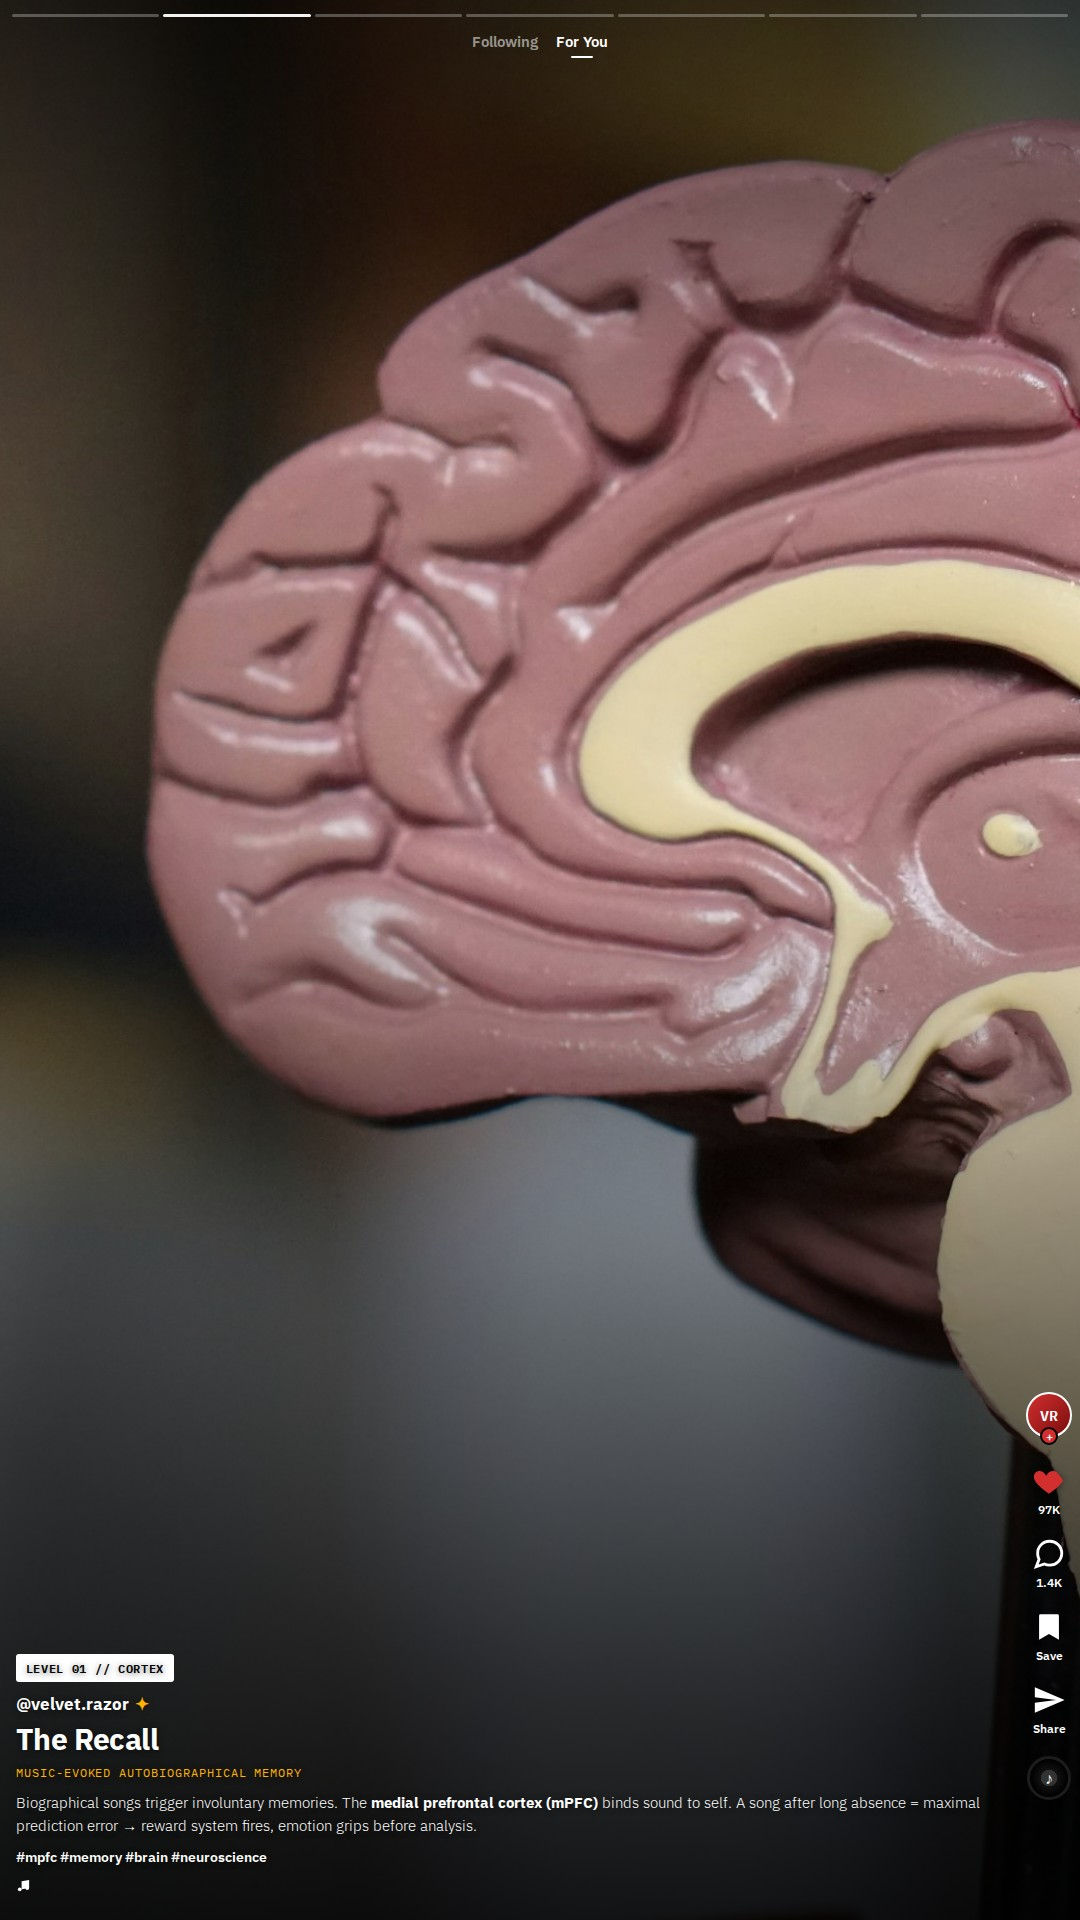
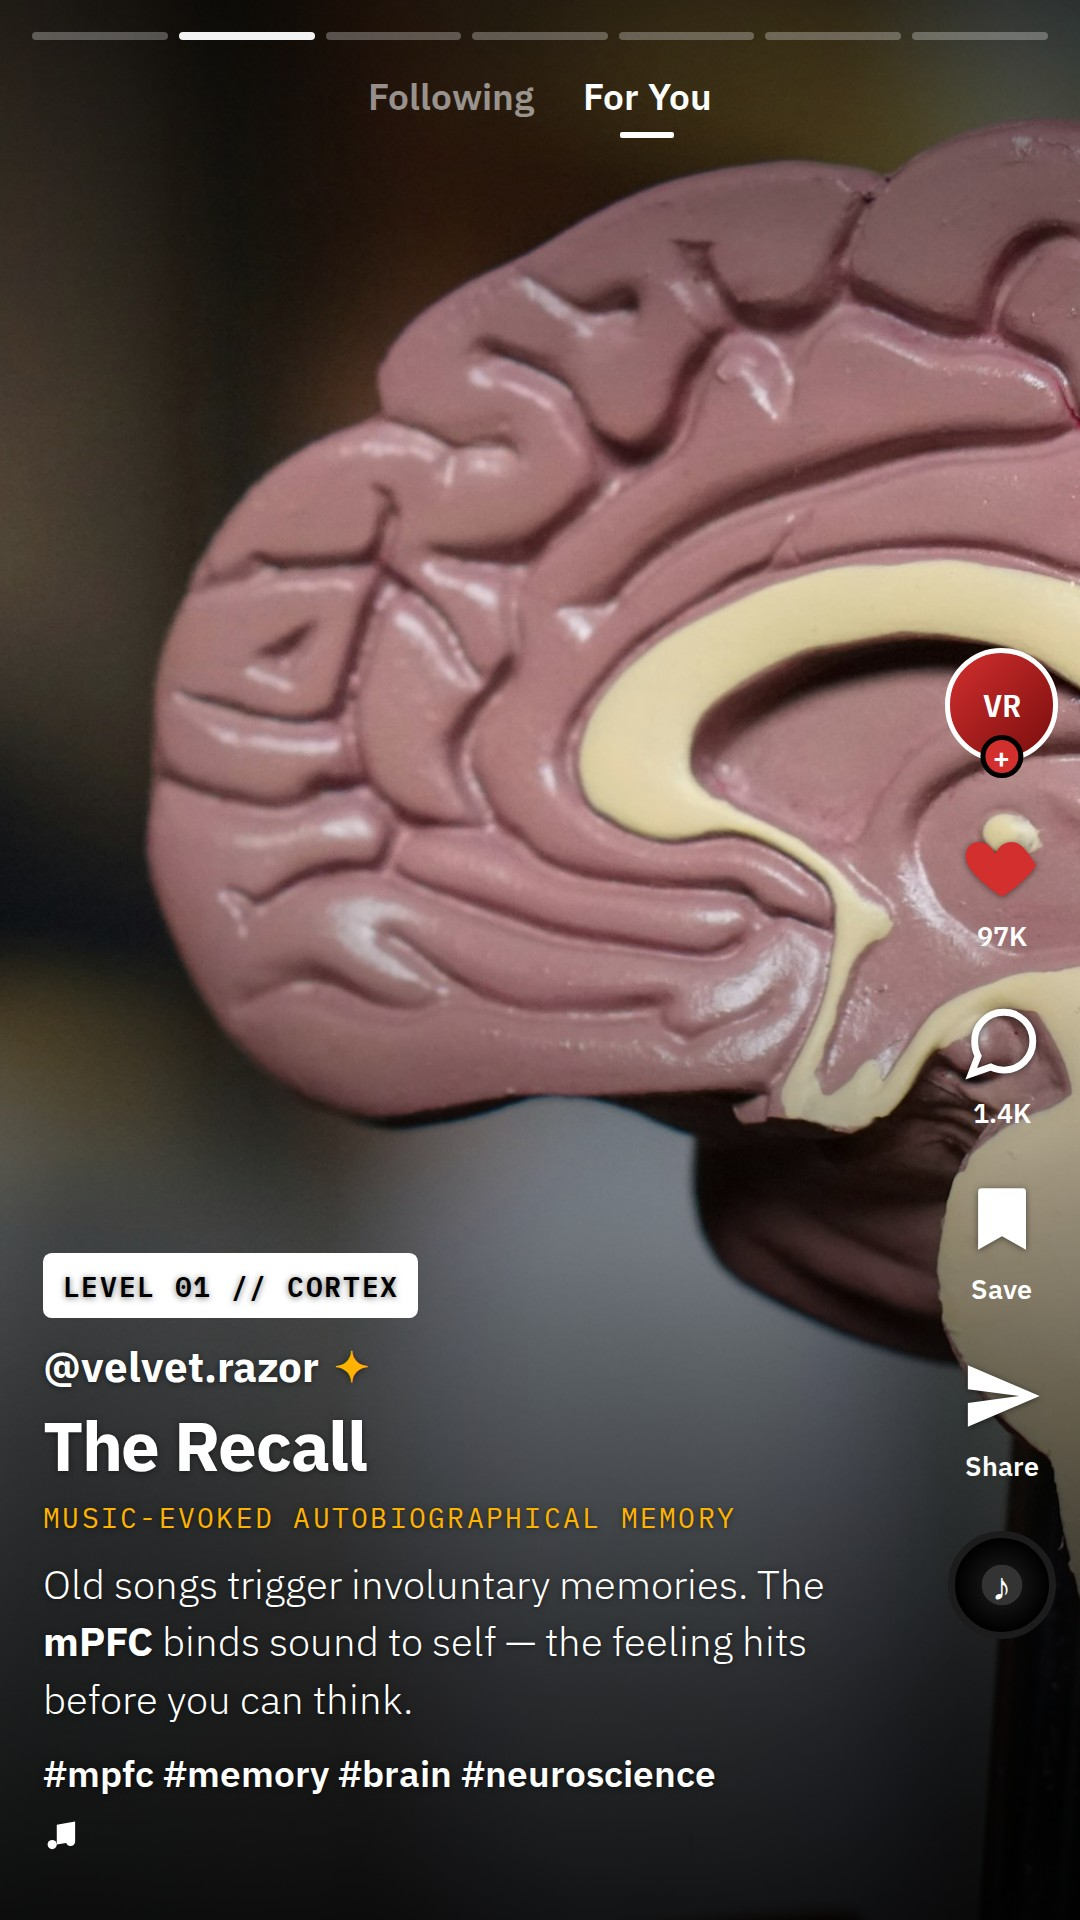
Enlarge slide typography and tighten captions
Size all caption/UI text in container units (cqw) via container-type on
.phone, so typography scales identically in the desktop frame and the
1080x1920 export (text no longer looks tiny on the JPEGs). Shorten each
slide description to punchy TikTok-style copy. Re-render export JPEGs.

Claude-Session: https://claude.ai/code/session_017Q2y2vkwAyKhxds5gc3Pqh

diff --git a/index.html b/index.html
@@ -51,6 +51,9 @@
             overflow: hidden;
             border-radius: 28px;
             box-shadow: 0 0 0 10px #161616, 0 30px 80px rgba(0,0,0,0.8);
+            /* Size container: typography uses cqw so it scales identically in the
+               440px desktop frame and the 1080px JPEG export. */
+            container-type: inline-size;
         }
 
         @media (max-width: 480px) {
@@ -125,18 +128,18 @@
             position: absolute;
             top: 0; left: 0; right: 0;
             z-index: 30;
-            padding: 14px 12px 0;
+            padding: 3cqw 3cqw 0;
             pointer-events: none;
         }
 
         .progress {
             display: flex;
-            gap: 4px;
+            gap: 1cqw;
         }
         .progress__seg {
             flex: 1;
-            height: 3px;
-            border-radius: 3px;
+            height: 0.7cqw;
+            border-radius: 1cqw;
             background: rgba(255,255,255,0.28);
             overflow: hidden;
         }
@@ -144,12 +147,12 @@
 
         .tabs {
             display: flex;
-            gap: 18px;
+            gap: 4.5cqw;
             justify-content: center;
             align-items: center;
-            margin-top: 14px;
+            margin-top: 3cqw;
             font-weight: 600;
-            font-size: 0.95rem;
+            font-size: 3.4cqw;
         }
         .tabs span { color: rgba(255,255,255,0.55); }
         .tabs .on {
@@ -160,8 +163,8 @@
             content: '';
             position: absolute;
             left: 50%; transform: translateX(-50%);
-            bottom: -7px;
-            width: 22px; height: 2px;
+            bottom: -1.6cqw;
+            width: 5cqw; height: 0.5cqw;
             background: #fff;
             border-radius: 2px;
         }
@@ -169,130 +172,130 @@
         /* --- RIGHT ACTION RAIL --- */
         .rail {
             position: absolute;
-            right: 8px;
-            bottom: 120px;
+            right: 2cqw;
+            bottom: 26cqw;
             z-index: 25;
             display: flex;
             flex-direction: column;
             align-items: center;
-            gap: 20px;
+            gap: 4.5cqw;
         }
         .rail__btn {
             display: flex;
             flex-direction: column;
             align-items: center;
-            gap: 4px;
+            gap: 1cqw;
             color: #fff;
         }
-        .rail__btn svg { width: 34px; height: 34px; filter: drop-shadow(0 1px 3px rgba(0,0,0,0.5)); }
-        .rail__btn span { font-size: 0.72rem; font-weight: 600; }
+        .rail__btn svg { width: 7.6cqw; height: 7.6cqw; filter: drop-shadow(0 1px 3px rgba(0,0,0,0.5)); }
+        .rail__btn span { font-size: 2.5cqw; font-weight: 600; }
 
         .rail__avatar {
             position: relative;
-            width: 46px; height: 46px;
+            width: 10.5cqw; height: 10.5cqw;
             border-radius: 50%;
-            border: 2px solid #fff;
+            border: 0.5cqw solid #fff;
             background: linear-gradient(135deg, var(--razor-red), #7a0d0d);
             display: flex; align-items: center; justify-content: center;
             font-family: var(--font-mono);
-            font-weight: 600; font-size: 0.95rem;
-            margin-bottom: 6px;
+            font-weight: 600; font-size: 3cqw;
+            margin-bottom: 1.4cqw;
         }
         .rail__plus {
             position: absolute;
-            bottom: -9px; left: 50%; transform: translateX(-50%);
-            width: 18px; height: 18px; border-radius: 50%;
+            bottom: -2cqw; left: 50%; transform: translateX(-50%);
+            width: 4cqw; height: 4cqw; border-radius: 50%;
             background: var(--razor-red);
-            border: 2px solid #000;
-            color: #fff; font-size: 12px; line-height: 14px; font-weight: 700;
+            border: 0.5cqw solid #000;
+            color: #fff; font-size: 2.6cqw; line-height: 1; font-weight: 700;
             display: flex; align-items: center; justify-content: center;
         }
 
         .rail__btn.heart svg { fill: var(--razor-red); }
 
         .rail__disc {
-            width: 44px; height: 44px;
+            width: 10cqw; height: 10cqw;
             border-radius: 50%;
             background: radial-gradient(circle, #333 30%, #111 31%, #000 70%);
-            border: 3px solid #1c1c1c;
+            border: 0.7cqw solid #1c1c1c;
             display: flex; align-items: center; justify-content: center;
             animation: spin 4s linear infinite;
         }
-        .rail__disc::after { content: '♪'; color: #fff; font-size: 16px; }
+        .rail__disc::after { content: '♪'; color: #fff; font-size: 3.6cqw; }
 
         /* --- BOTTOM CAPTION --- */
         .caption {
             position: relative;
             z-index: 20;
-            padding: 0 78px 26px 16px;
+            padding: 0 18cqw 6cqw 4cqw;
             text-shadow: 0 1px 6px rgba(0,0,0,0.55);
         }
 
         .badge {
             display: inline-block;
             font-family: var(--font-mono);
-            font-size: 0.72rem;
+            font-size: 2.6cqw;
             font-weight: 600;
             letter-spacing: 0.06em;
             text-transform: uppercase;
-            padding: 0.25rem 0.6rem;
-            margin-bottom: 0.7rem;
+            padding: 0.9cqw 1.8cqw;
+            margin-bottom: 2cqw;
             background: #fff; color: #000;
-            border-radius: 3px;
+            border-radius: 0.8cqw;
         }
         .badge.red  { background: var(--razor-red); color: #fff; }
         .badge.gold { background: var(--alert-gold); color: #000; }
 
         .handle {
             font-weight: 700;
-            font-size: 1.05rem;
-            margin-bottom: 0.5rem;
-            display: flex; align-items: center; gap: 6px;
+            font-size: 3.9cqw;
+            margin-bottom: 1.4cqw;
+            display: flex; align-items: center; gap: 1.4cqw;
         }
         .handle .verified { color: var(--alert-gold); }
 
         .title {
-            font-size: 1.9rem;
+            font-size: 6.4cqw;
             font-weight: 700;
-            line-height: 1.08;
+            line-height: 1.05;
             letter-spacing: -0.02em;
-            margin-bottom: 0.55rem;
+            margin-bottom: 1.6cqw;
         }
         .slide.core .title { color: #ff5a5a; }
 
         .sub {
             font-family: var(--font-mono);
-            font-size: 0.74rem;
+            font-size: 2.6cqw;
             text-transform: uppercase;
             letter-spacing: 0.08em;
             color: var(--alert-gold);
-            margin-bottom: 0.7rem;
+            margin-bottom: 1.8cqw;
         }
 
         .desc {
-            font-size: 0.96rem;
+            font-size: 3.7cqw;
             font-weight: 300;
-            line-height: 1.5;
+            line-height: 1.45;
             color: var(--text-main);
-            margin-bottom: 0.6rem;
+            margin-bottom: 1.8cqw;
         }
         .desc strong { font-weight: 700; }
 
         .tags {
-            font-size: 0.9rem;
+            font-size: 3.4cqw;
             font-weight: 600;
             color: #fff;
-            margin-bottom: 0.7rem;
+            margin-bottom: 1.8cqw;
         }
 
         .music {
-            display: flex; align-items: center; gap: 8px;
-            font-size: 0.82rem; font-weight: 500;
+            display: flex; align-items: center; gap: 1.8cqw;
+            font-size: 2.8cqw; font-weight: 500;
             color: var(--text-main);
         }
-        .music svg { width: 15px; height: 15px; }
+        .music svg { width: 3.4cqw; height: 3.4cqw; }
         .music .ticker {
-            overflow: hidden; white-space: nowrap; max-width: 220px;
+            overflow: hidden; white-space: nowrap; max-width: 55cqw;
         }
         .music .ticker span {
             display: inline-block;
@@ -303,18 +306,18 @@
         /* --- SWIPE-UP HINT (first slide) --- */
         .swipe-hint {
             position: absolute;
-            left: 50%; bottom: 14px;
+            left: 50%; bottom: 3cqw;
             transform: translateX(-50%);
             z-index: 22;
-            display: flex; flex-direction: column; align-items: center; gap: 2px;
+            display: flex; flex-direction: column; align-items: center; gap: 0.5cqw;
             color: rgba(255,255,255,0.85);
             font-family: var(--font-mono);
-            font-size: 0.66rem;
+            font-size: 2.4cqw;
             letter-spacing: 0.12em;
             text-transform: uppercase;
             animation: bob 1.6s ease-in-out infinite;
         }
-        .swipe-hint svg { width: 22px; height: 22px; }
+        .swipe-hint svg { width: 5cqw; height: 5cqw; }
 
         @keyframes spin { to { transform: rotate(360deg); } }
         @keyframes marquee { to { transform: translateX(-100%); } }
@@ -361,7 +364,7 @@
                     <div class="handle">@velvet.razor <span class="verified">✦</span></div>
                     <div class="title">Feelings &amp; Singing</div>
                     <div class="sub">Neurophysiology of Singing</div>
-                    <div class="desc"><strong>Five levels, one descent.</strong> How breath pressure becomes affect — from recognition in the cortex to the structural breach in the core. Not "singing from the gut", but muscle, nerve &amp; frequency coupled to emotion.</div>
+                    <div class="desc"><strong>Five levels, one descent.</strong> How breath pressure becomes raw emotion — muscle, nerve &amp; frequency. Not "singing from the gut".</div>
                     <div class="tags">#neuroscience #singing #voicelab #fyp</div>
                     <div class="music">
                         <svg viewBox="0 0 24 24" fill="#fff"><path d="M9 18V5l12-2v13"/><circle cx="6" cy="18" r="3" fill="#fff"/><circle cx="18" cy="16" r="3" fill="#fff"/></svg>
@@ -392,7 +395,7 @@
                     <div class="handle">@velvet.razor <span class="verified">✦</span></div>
                     <div class="title">The Recall</div>
                     <div class="sub">Music-Evoked Autobiographical Memory</div>
-                    <div class="desc">Biographical songs trigger involuntary memories. The <strong>medial prefrontal cortex (mPFC)</strong> binds sound to self. A song after long absence = maximal prediction error → reward system fires, emotion grips before analysis.</div>
+                    <div class="desc">Old songs trigger involuntary memories. The <strong>mPFC</strong> binds sound to self — the feeling hits before you can think.</div>
                     <div class="tags">#mpfc #memory #brain #neuroscience</div>
                     <div class="music">
                         <svg viewBox="0 0 24 24" fill="#fff"><path d="M9 18V5l12-2v13"/><circle cx="6" cy="18" r="3" fill="#fff"/><circle cx="18" cy="16" r="3" fill="#fff"/></svg>
@@ -419,7 +422,7 @@
                     <div class="handle">@velvet.razor <span class="verified">✦</span></div>
                     <div class="title">The Body as Instrument</div>
                     <div class="sub">Self-Resonance · Bone Conduction</div>
-                    <div class="desc">When singing, you are the sound source. Bone &amp; air conduction fire at once. The singer's formant concentrates energy at <strong>2.8–3.4 kHz</strong> — felt physically in the sternum. A somatosensory layer mere listening can't reach.</div>
+                    <div class="desc">When you sing, you <strong>are</strong> the sound. The singer's formant peaks at <strong>2.8–3.4 kHz</strong> — felt in your sternum. A layer listening can't reach.</div>
                     <div class="tags">#resonance #boneconduction #interoception</div>
                     <div class="music">
                         <svg viewBox="0 0 24 24" fill="#fff"><path d="M9 18V5l12-2v13"/><circle cx="6" cy="18" r="3" fill="#fff"/><circle cx="18" cy="16" r="3" fill="#fff"/></svg>
@@ -446,7 +449,7 @@
                     <div class="handle">@velvet.razor <span class="verified">✦</span></div>
                     <div class="title">The Nerve of Rest</div>
                     <div class="sub">Vagus Nerve · Parasympathetic Tone</div>
-                    <div class="desc">Laryngeal branches of the <strong>Vagus Nerve</strong> are stimulated with every phonation. The long exhale of a phrase amplifies it: HRV rises, cortisol drops. The ventral vagal complex reads "safe" — defenses lower, vulnerability allowed.</div>
+                    <div class="desc">Every sung phrase stimulates the <strong>vagus nerve</strong>. HRV up, cortisol down. The body reads "safe" — and drops its guard.</div>
                     <div class="tags">#vagusnerve #hrv #regulation #calm</div>
                     <div class="music">
                         <svg viewBox="0 0 24 24" fill="#fff"><path d="M9 18V5l12-2v13"/><circle cx="6" cy="18" r="3" fill="#fff"/><circle cx="18" cy="16" r="3" fill="#fff"/></svg>
@@ -473,7 +476,7 @@
                     <div class="handle">@velvet.razor <span class="verified">✦</span></div>
                     <div class="title">Relinquishing Control</div>
                     <div class="sub">Transient Hypofrontality</div>
-                    <div class="desc">Intuitive "let-go" singing down-regulates the prefrontal cortex → <strong>transient hypofrontality</strong>. Executive self-monitoring steps down, the somatic autopilot takes over. The analytical inner censor goes fully offline.</div>
+                    <div class="desc">Letting go down-regulates the prefrontal cortex → <strong>transient hypofrontality</strong>. The inner censor goes offline; the body takes over.</div>
                     <div class="tags">#flowstate #hypofrontality #letgo</div>
                     <div class="music">
                         <svg viewBox="0 0 24 24" fill="#fff"><path d="M9 18V5l12-2v13"/><circle cx="6" cy="18" r="3" fill="#fff"/><circle cx="18" cy="16" r="3" fill="#fff"/></svg>
@@ -500,7 +503,7 @@
                     <div class="handle">@velvet.razor <span class="verified">✦</span></div>
                     <div class="title">The Wall Breach</div>
                     <div class="sub">Convergence · Catharsis · Discharge</div>
-                    <div class="desc">When all parameters align — safety (Vagus), self-oscillation (Resonance), censor off (Hypofrontality), memory unlocked (mPFC) — the defensive walls break. Singing bypasses the verbal filter. The barrier tears: tears, breakthrough, discharge.</div>
+                    <div class="desc">Safety + resonance + censor off + memory unlocked = <strong>the walls break</strong>. Singing bypasses the verbal filter. The barrier tears: tears, release.</div>
                     <div class="tags">#catharsis #emotion #breakthrough</div>
                     <div class="music">
                         <svg viewBox="0 0 24 24" fill="#fff"><path d="M9 18V5l12-2v13"/><circle cx="6" cy="18" r="3" fill="#fff"/><circle cx="18" cy="16" r="3" fill="#fff"/></svg>
@@ -527,7 +530,7 @@
                     <div class="handle">@velvet.razor <span class="verified">✦</span></div>
                     <div class="title">The Queue &amp; The Seam</div>
                     <div class="sub">Speech-Motorics · Latency · ADHD</div>
-                    <div class="desc">Singing dictates rhythm externally — syllables <em>n+1, n+2</em> queue in a phonological buffer. Between "thinking" &amp; "forming" a word: a <strong>50–150 ms latency</strong>, normally erased by a forward model. <strong>In ADHD</strong> reduced sensory gating lets the buffer break into consciousness — the seam becomes audible.</div>
+                    <div class="desc">Syllables queue in a buffer. A <strong>50–150 ms</strong> gap sits between thinking and forming a word — normally erased. <strong>In ADHD</strong> the seam becomes audible.</div>
                     <div class="tags">#adhd #speech #latency #neurodivergent</div>
                     <div class="music">
                         <svg viewBox="0 0 24 24" fill="#fff"><path d="M9 18V5l12-2v13"/><circle cx="6" cy="18" r="3" fill="#fff"/><circle cx="18" cy="16" r="3" fill="#fff"/></svg>
